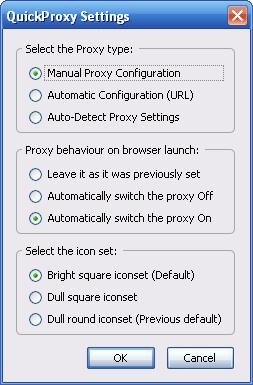
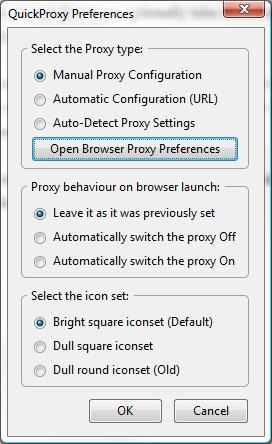
quickproxy-2008.08.28-fx.xpi  - Added shortcut to Browser Proxy preferences

diff --git a/trunk/chrome/quickproxy/content/quickproxyFunctions.js b/trunk/chrome/quickproxy/content/quickproxyFunctions.js
@@ -80,6 +80,10 @@ function QuickProxy_OpenPrefs() {
 	window.openDialog('chrome://quickproxy/content/quickproxySettings.xul', quickproxyprefstitle, 'chrome,centerscreen,dependent');
 }
 
+function QuickProxy_OpenProxyPrefs() {
+	window.openDialog('chrome://browser/content/preferences/connection.xul', quickproxybrowserprefstitle, 'chrome,centerscreen,dependent');
+}
+
 function QuickProxy_InitPrefs(qp_type, qp_behaviour, qp_skin) {
 	QuickProxy_CheckPrefs();
 	var proxyType = qp_Prefs.getIntPref('quickproxy.type')

diff --git a/release/src/chrome/quickproxy/content/quickproxyFunctions.js b/release/src/chrome/quickproxy/content/quickproxyFunctions.js
@@ -80,6 +80,10 @@ function QuickProxy_OpenPrefs() {
 	window.openDialog('chrome://quickproxy/content/quickproxySettings.xul', quickproxyprefstitle, 'chrome,centerscreen,dependent');
 }
 
+function QuickProxy_OpenProxyPrefs() {
+	window.openDialog('chrome://browser/content/preferences/connection.xul', "Connection Settings", 'chrome,centerscreen,dependent');
+}
+
 function QuickProxy_InitPrefs(qp_type, qp_behaviour, qp_skin) {
 	QuickProxy_CheckPrefs();
 	var proxyType = qp_Prefs.getIntPref('quickproxy.type')
